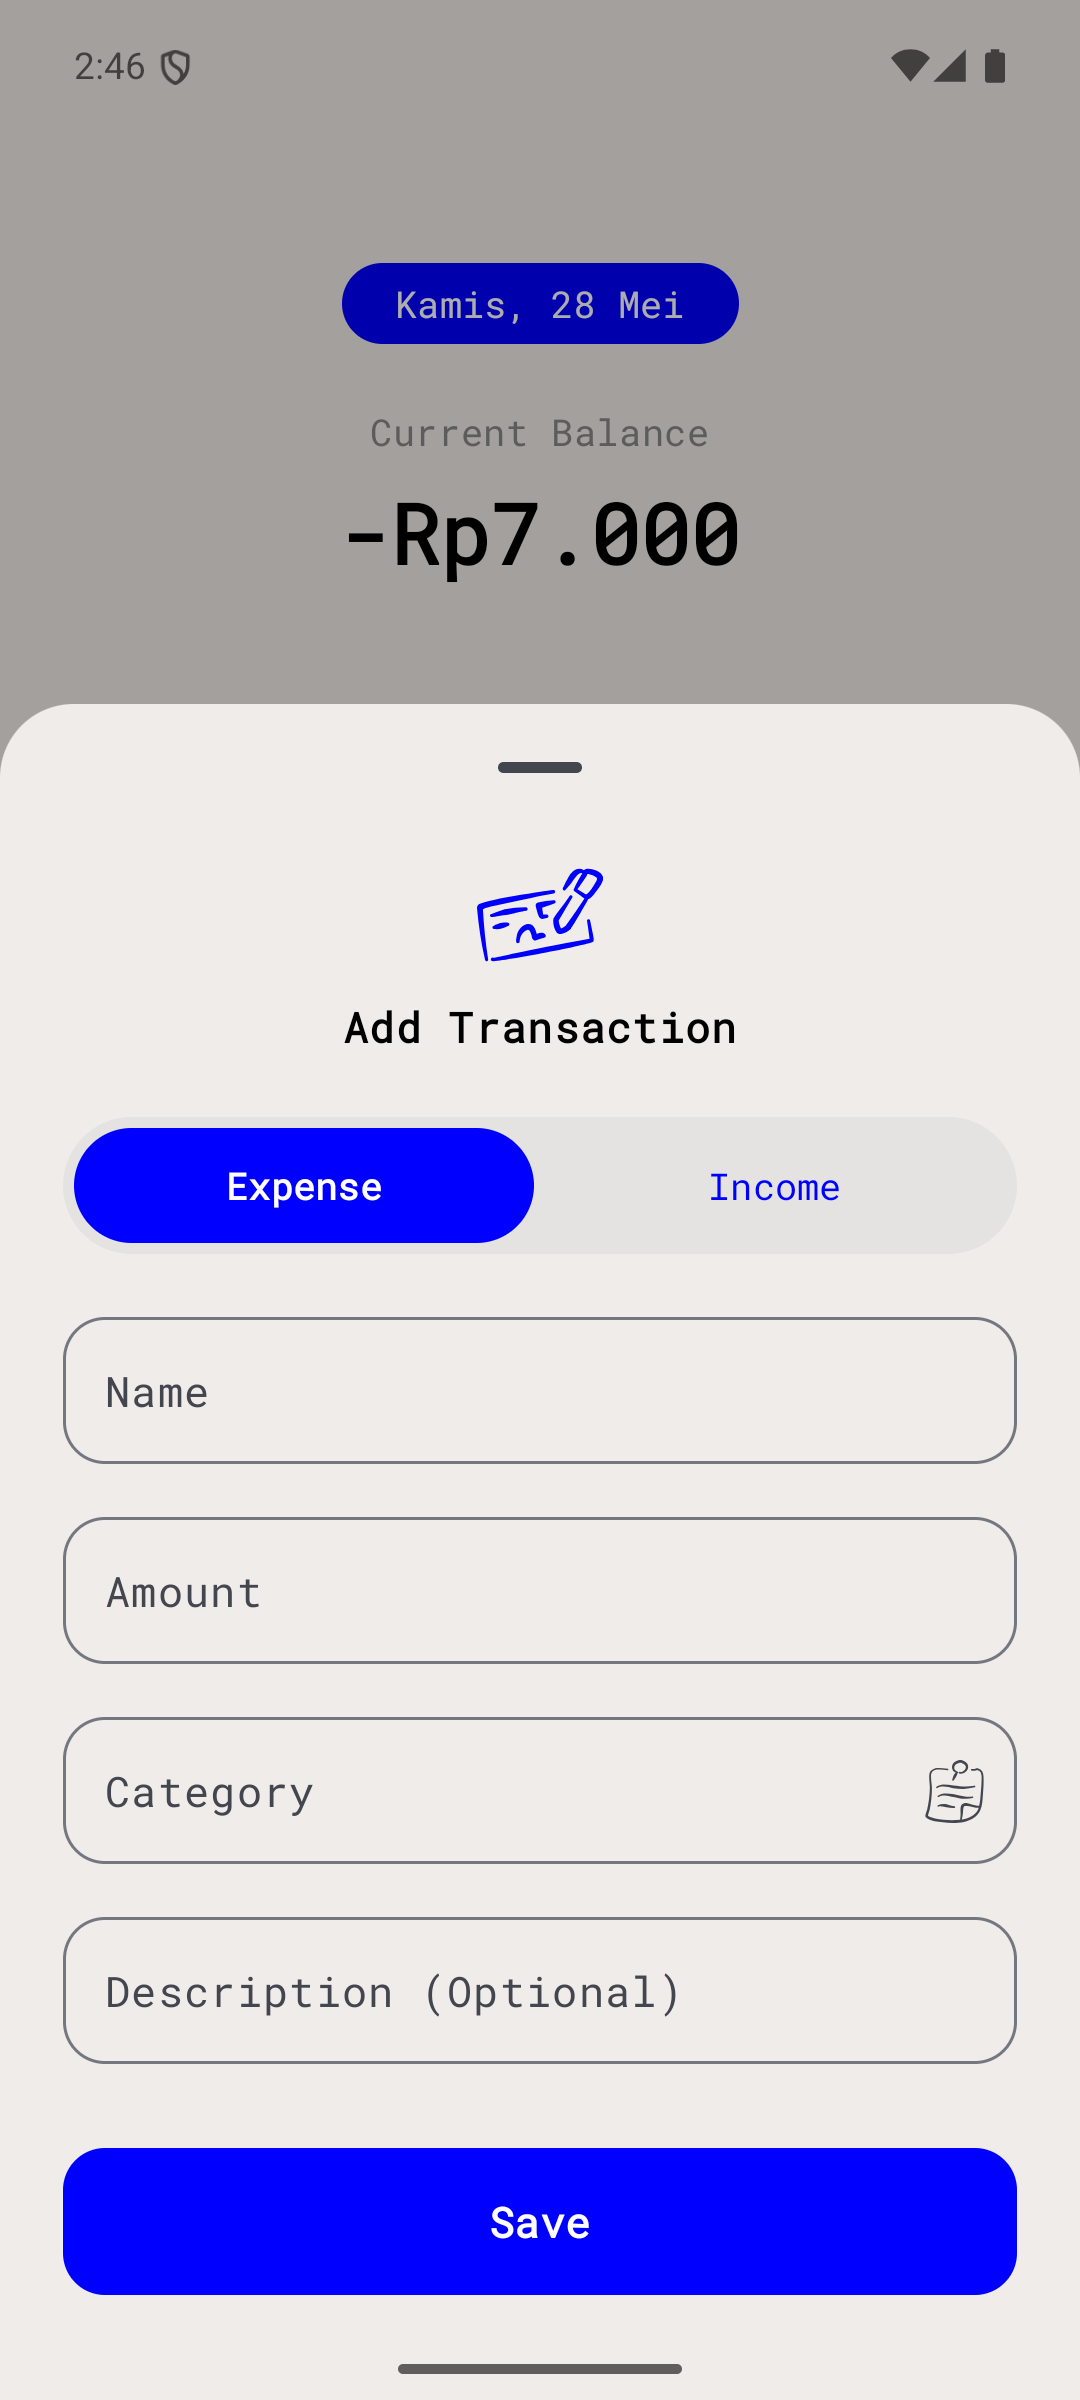
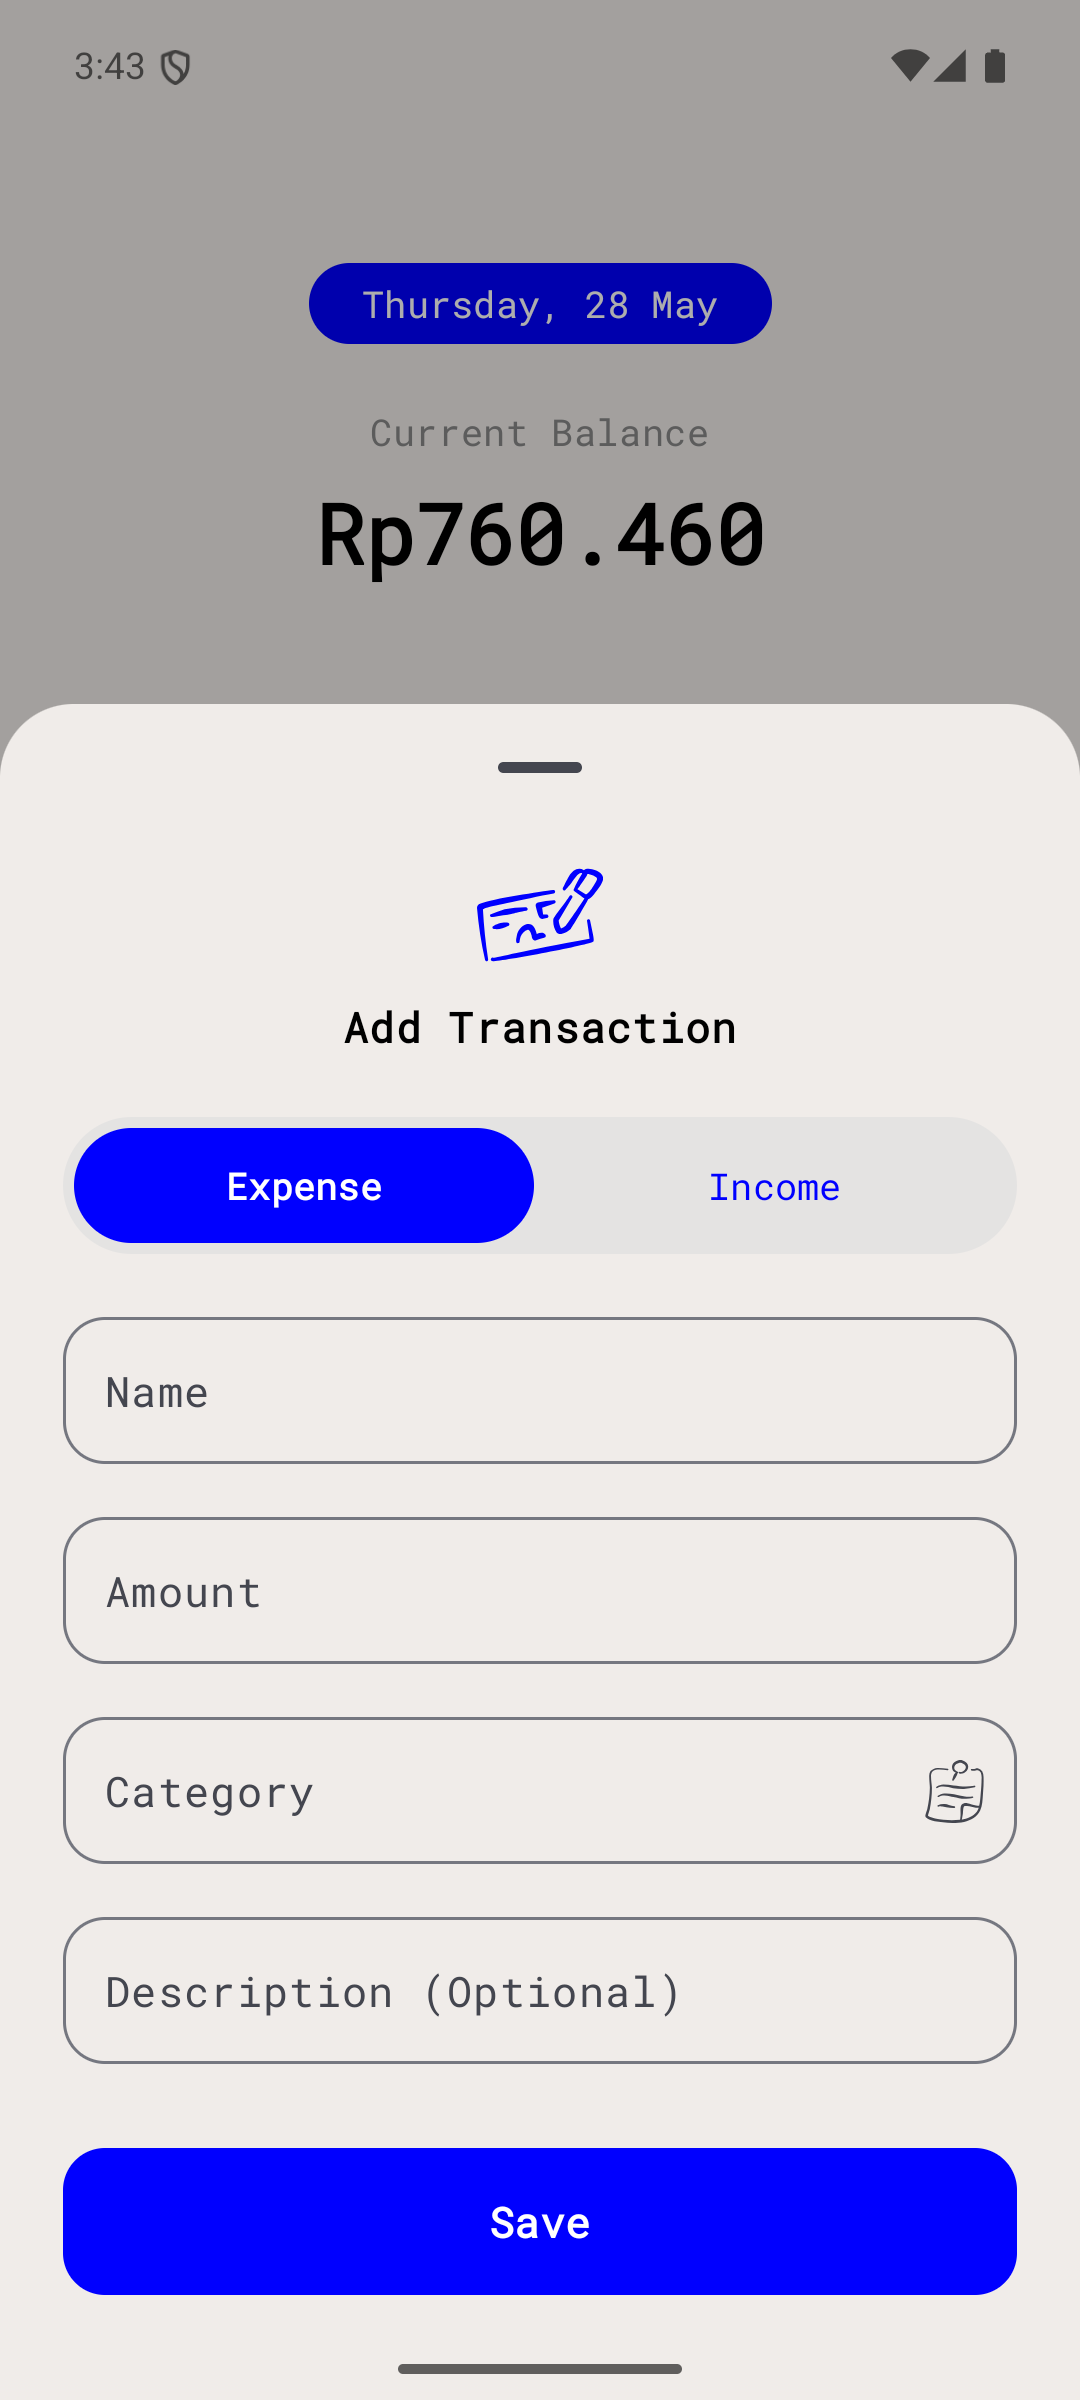
fix: in app date language locale

diff --git a/app/src/main/java/com/example/wlet/MainActivity.kt b/app/src/main/java/com/example/wlet/MainActivity.kt
@@ -3,6 +3,8 @@ package com.example.wlet
 import android.content.Intent
 import android.os.Bundle
 import androidx.appcompat.app.AppCompatActivity
+import androidx.appcompat.app.AppCompatDelegate
+import androidx.core.os.LocaleListCompat
 import androidx.activity.compose.setContent
 import androidx.activity.enableEdgeToEdge
 import androidx.compose.ui.res.stringResource
@@ -42,6 +44,15 @@ class MainActivity : AppCompatActivity() {
 
     override fun onCreate(savedInstanceState: Bundle?) {
         super.onCreate(savedInstanceState)
+        
+        // Restore application locale from settings
+        val app = application as WletApplication
+        val savedLang = app.settingsManager.language
+        val appLocale = LocaleListCompat.forLanguageTags(savedLang)
+        if (AppCompatDelegate.getApplicationLocales() != appLocale) {
+            AppCompatDelegate.setApplicationLocales(appLocale)
+        }
+        
         enableEdgeToEdge()
         setContent {
             WletTheme {

diff --git a/app/src/main/java/com/example/wlet/data/SettingsManager.kt b/app/src/main/java/com/example/wlet/data/SettingsManager.kt
@@ -2,6 +2,7 @@ package com.example.wlet.data
 
 import android.content.Context
 import android.content.SharedPreferences
+import java.util.Locale
 
 /**
  * SettingsManager handles persistence for user preferences like Language and Currency.
@@ -14,6 +15,11 @@ class SettingsManager(context: Context) {
         set(value) = prefs.edit().putString("currency", value).apply()
 
     var language: String
-        get() = prefs.getString("language", "id") ?: "id"
+        get() {
+            val systemLanguage = Locale.getDefault().language
+            val defaultLanguage = if (systemLanguage == "id") "id" else "en"
+            return prefs.getString("language", defaultLanguage) ?: defaultLanguage
+        }
         set(value) = prefs.edit().putString("language", value).apply()
 }
+
